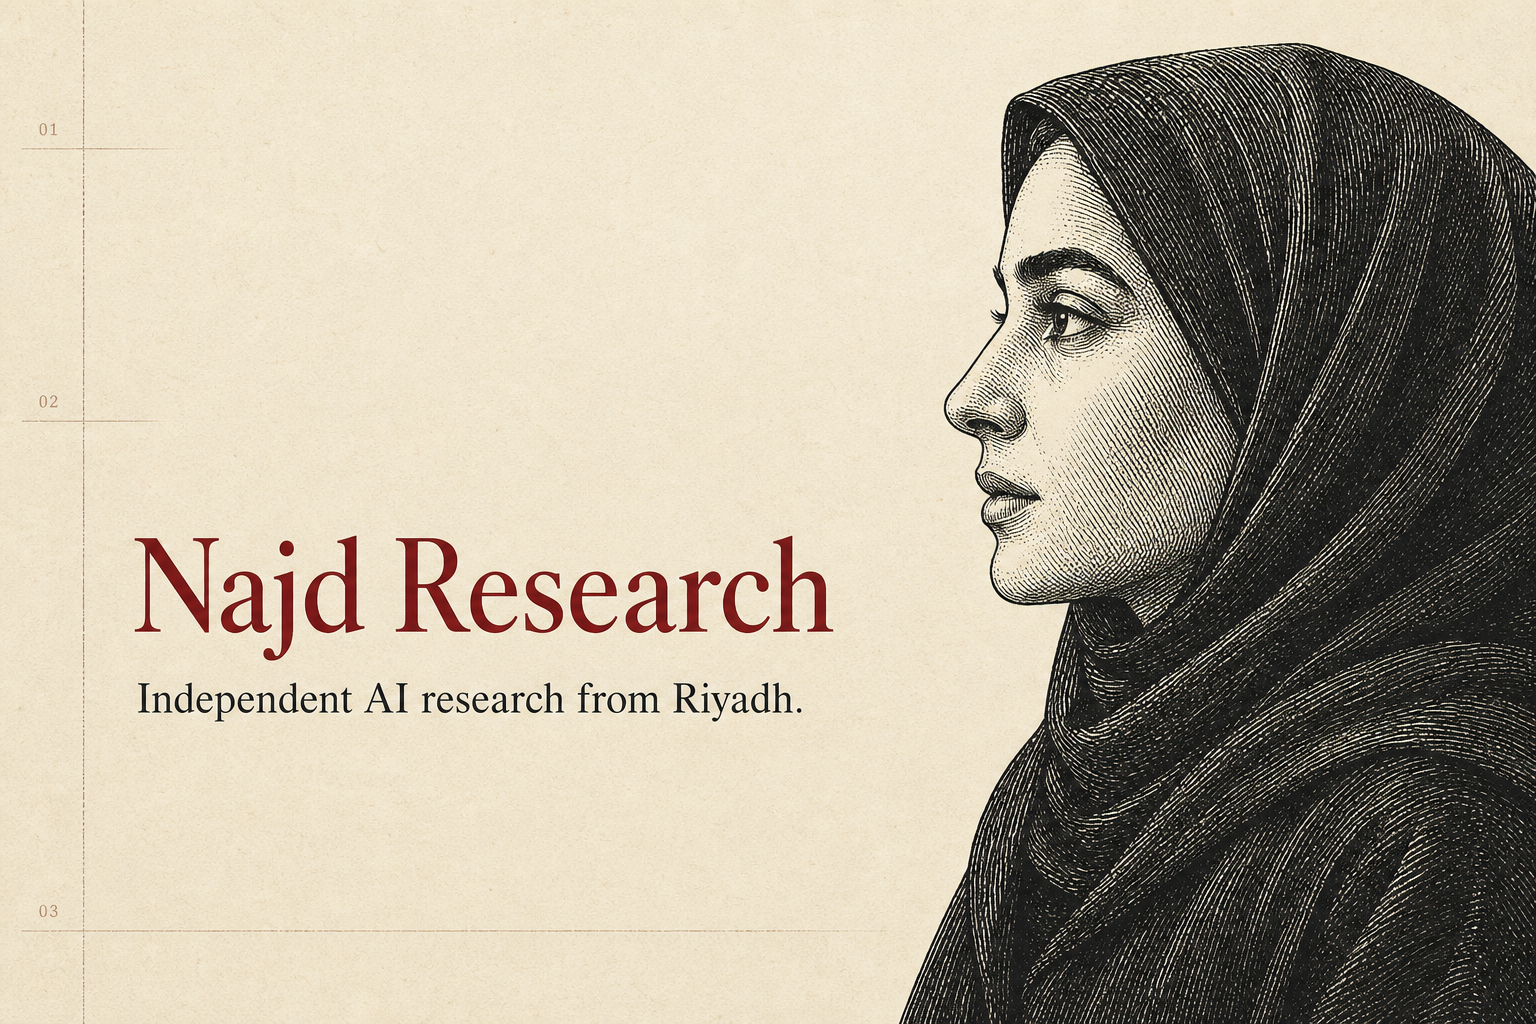
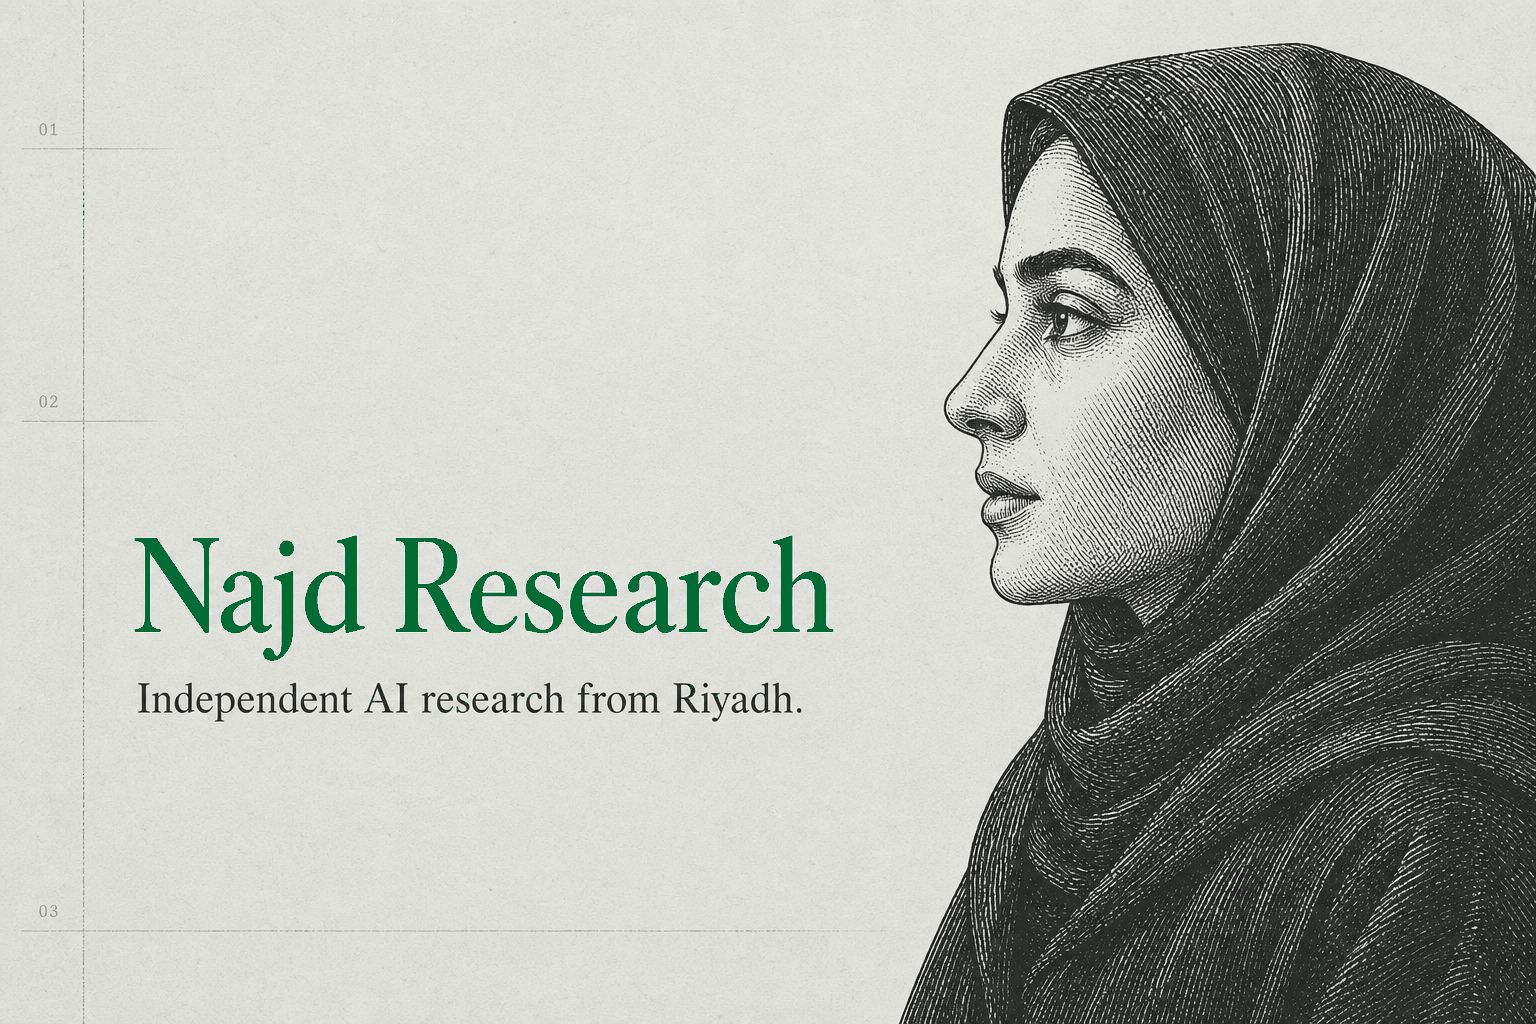
Refine product order and color system

Changed region(s): [[0.0938, 0.5, 0.5625, 0.6562]]

diff --git a/src/styles/global.css b/src/styles/global.css
@@ -3,15 +3,15 @@
 @import "@fontsource-variable/newsreader";
 
 :root {
-  --paper: #f1ebdd;
-  --paper-deep: #e8decc;
-  --ink: #191714;
-  --ink-soft: #625b51;
-  --ink-faint: #8c8173;
-  --red: #791f2b;
-  --red-soft: #9b6d65;
-  --rule: rgba(25, 23, 20, 0.22);
-  --rule-soft: rgba(25, 23, 20, 0.12);
+  --paper: #f7f7f2;
+  --paper-deep: #e8e8e1;
+  --ink: #111310;
+  --ink-soft: #545952;
+  --ink-faint: #7d827b;
+  --red: #006c35;
+  --red-soft: #5d8e70;
+  --rule: rgba(17, 19, 16, 0.22);
+  --rule-soft: rgba(17, 19, 16, 0.12);
   --page: 76rem;
 }
 
@@ -40,7 +40,7 @@ body {
   margin: 0;
   color: var(--ink);
   background:
-    linear-gradient(rgba(25, 23, 20, 0.025) 1px, transparent 1px), var(--paper);
+    linear-gradient(rgba(17, 19, 16, 0.025) 1px, transparent 1px), var(--paper);
   background-size: 100% 8rem;
   font-family: Arial, Helvetica, sans-serif;
   font-size: 16px;
@@ -486,7 +486,7 @@ nav a:hover::after {
 .principles-section {
   padding-block: clamp(6rem, 10vw, 10rem);
   color: var(--paper);
-  background: var(--red);
+  background: var(--ink);
 }
 
 .principles-grid {

diff --git a/src/data/research.ts b/src/data/research.ts
@@ -28,14 +28,6 @@ export const products: ProductRecord[] = [
   },
   {
     number: "02",
-    name: "Najd Models",
-    description:
-      "Models trained, adapted, or released by Najd Research when the work earns that name.",
-    status: "future",
-    label: "Future",
-  },
-  {
-    number: "03",
     name: "Najd Chat",
     description:
       "A general conversational interface held outside the current development focus.",
@@ -43,12 +35,20 @@ export const products: ProductRecord[] = [
     label: "Frozen",
   },
   {
-    number: "04",
+    number: "03",
     name: "Najd Search",
     description:
       "A research and retrieval interface held outside the current development focus.",
     status: "frozen",
     label: "Frozen",
+  },
+  {
+    number: "04",
+    name: "Najd Models",
+    description:
+      "Models trained, adapted, or released by Najd Research when the work earns that name.",
+    status: "future",
+    label: "Future",
   },
 ];
 
